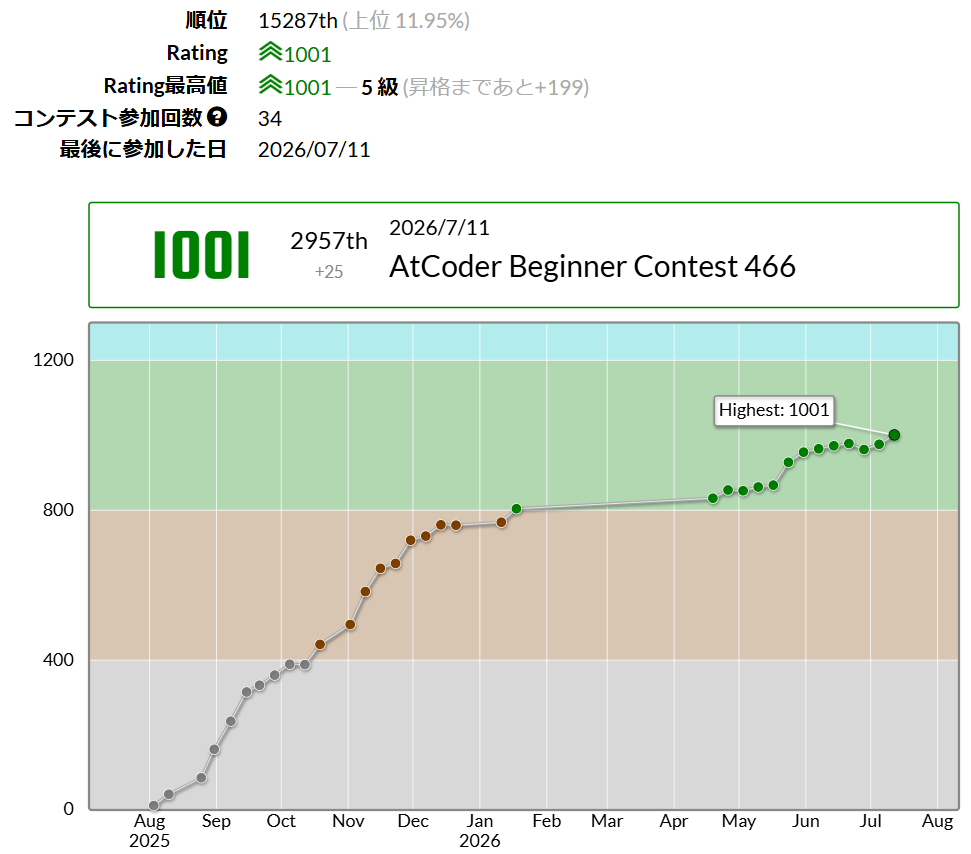
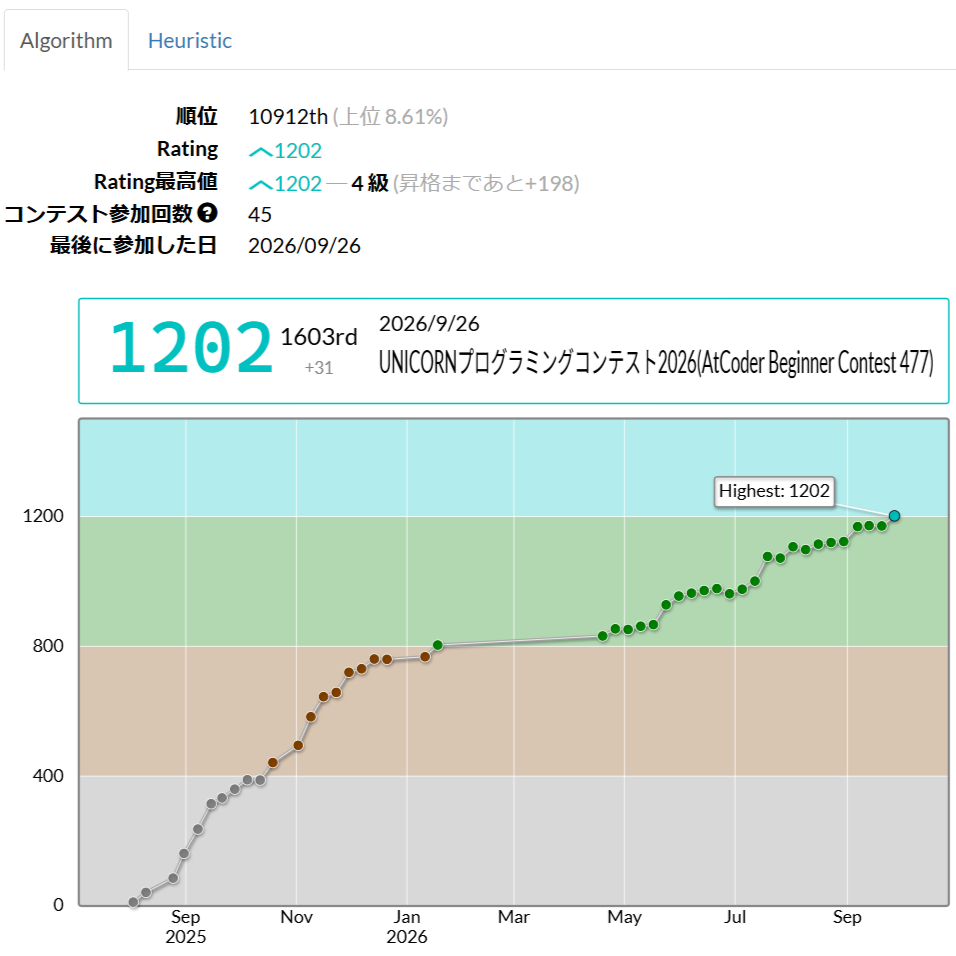
cahnge atcoder

diff --git a/others.html b/others.html
@@ -512,8 +512,8 @@
           <img src="images/other09_icon.png" alt="AtCoder 緑">
           <div class="game-info">
             <span class="category">競技プログラミング</span>
-            <h3>AtCoder Rating 1000</h3>
-            <p>AtCoderで緑色帯・レーティング1000を達成。<strong>アルゴリズム力や実装力</strong>を鍛えた。計算量を意識してプログラムをかけるようになった。</p>
+            <h3>AtCoder 水色帯</h3>
+            <p>AtCoderで水色帯・レーティング1200を達成。<strong>アルゴリズム力や実装力</strong>を鍛えた。計算量を意識してプログラムをかけるようになった。</p>
           </div>
         </div>
         <div class="detail-row">
